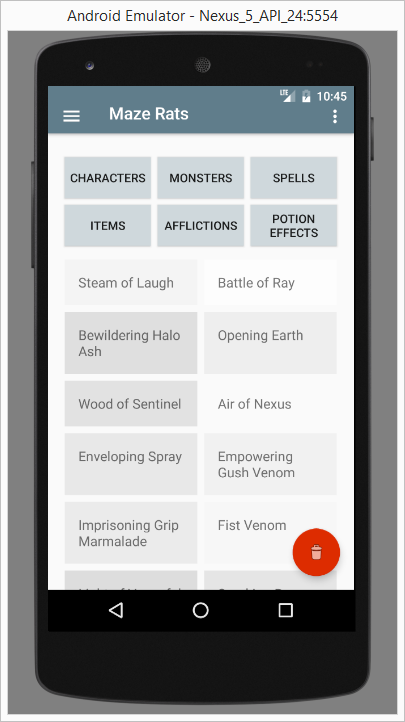
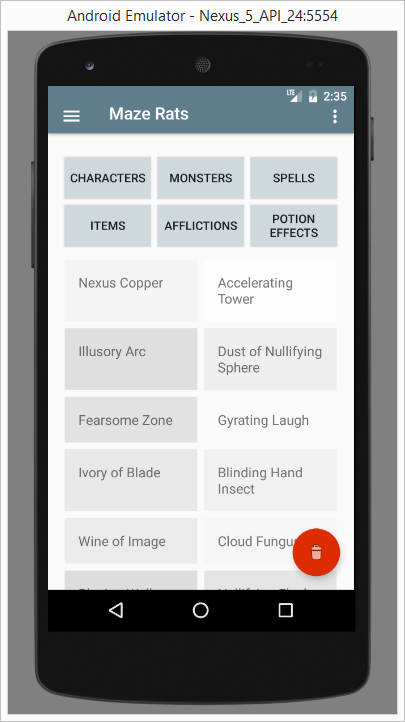
new screenshots and modifications to the README

diff --git a/README.md b/README.md
@@ -12,27 +12,53 @@ This is an Android application which randomly generates configurable things for 
 * Freebooters on the Frontier, by Jason Lutes. http://lampblackandbrimstone.blogspot.com/
 * Maze Rats 0.1, by Ben Milton. http://questingblog.com/maze-rats/
 
+## Other random generators with the same/similar content
+
+https://perilous-wilds.geekwire.net/region
+
+http://www.random-generator.com/index.php?title=Category:Dungeon_World
+
 ## Goals
 
-I'm interested in using this app to enable some complex random tables that involve a handful of
-dice and multiple interrelated tables (like Perilous Wilds).
+* Teach myself Android, Groovy, and mobile development
+* I'm interested generating randomized RPG sandbox content using
+  * complex random tables that involve a handful of dice and multiple
+    interrelated tables (Perilous Wilds is a good example).
+  * evocative, interesting random table entries.
 
-I'm not particularly interested in RPG-Pad being a general-purpose random-generator engine.
+* I'm not particularly interested in turning this app into a general-purpose random-generator engine.
 
 ## Screenshots
 
 ![alt text](https://github.com/stevesea/RPGpad/raw/master/docs/images/initial_screen.png "The initial screen")
 ![alt text](https://github.com/stevesea/RPGpad/raw/master/docs/images/nav_drawer.png "Sliding nav bar, acknowledgements")
 
+### The Perilous Wilds
+
+#### Exploration
+
+![alt text](https://github.com/stevesea/RPGpad/raw/master/docs/images/pw_danger.png "Perilous Wilds - Danger")
+![alt text](https://github.com/stevesea/RPGpad/raw/master/docs/images/pw_discovery.png "Perilous Wilds - Discovery")
+![alt text](https://github.com/stevesea/RPGpad/raw/master/docs/images/pw_explore_dungeon.png "Perilous Wilds - Explore Dungeon")
+![alt text](https://github.com/stevesea/RPGpad/raw/master/docs/images/pw_treasure.png "Perilous Wilds - Treasure ")
+
+#### Creating locations
+
+![alt text](https://github.com/stevesea/RPGpad/raw/master/docs/images/pw_dungeon.png "Perilous Wilds - Dungeon ")
+![alt text](https://github.com/stevesea/RPGpad/raw/master/docs/images/pw_steading.png "Perilous Wilds - Steading ")
+
+#### Creating NPCs and Hirelings
+
+![alt text](https://github.com/stevesea/RPGpad/raw/master/docs/images/pw_follower.png "Perilous Wilds - Follower ")
+![alt text](https://github.com/stevesea/RPGpad/raw/master/docs/images/pw_npc.png "Perilous Wilds - NPC ")
+![alt text](https://github.com/stevesea/RPGpad/raw/master/docs/images/pw_monster.png "Perilous Wilds - Monster ")
+
+### Maze Rats
+
 ![alt text](https://github.com/stevesea/RPGpad/raw/master/docs/images/mr_chars.png "Maze Rats - characters")
 ![alt text](https://github.com/stevesea/RPGpad/raw/master/docs/images/mr_monsters.png "Maze Rats - monsters")
 ![alt text](https://github.com/stevesea/RPGpad/raw/master/docs/images/mr_spells.png "Maze Rats - spells")
 
-## Other random generators with the same/similar content
-
-https://perilous-wilds.geekwire.net/region
-
-http://www.random-generator.com/index.php?title=Category:Dungeon_World
 
 ## License
 This project is licensed under [GNU General Public License, version 3 (GPL-3.0)](https://opensource.org/licenses/GPL-3.0).
